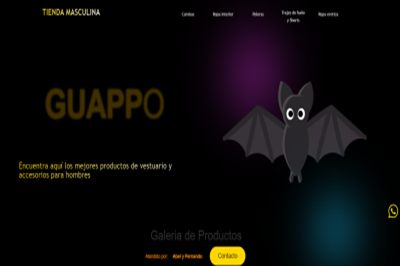
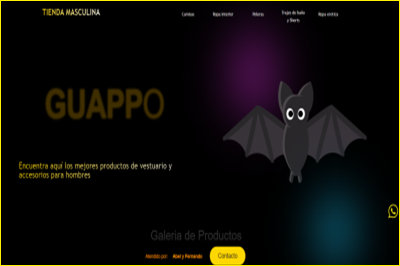
se cambio pantalla la otra

Changed region(s): [[0.0, 0.0, 1.0, 1.0]]

diff --git a/main.css b/main.css
@@ -929,9 +929,9 @@ img {
   position: relative;
   text-align: center;
   border: 3px solid #000;
-  -moz-border-radius: 8px;
-  -webkit-border-radius: 8px;
-  border-radius: 8px;
+  /*-moz-border-radius: 8px;*/
+  /*-webkit-border-radius: 8px;*/
+  /*border-radius: 8px;*/
   overflow: hidden;
   background: url("http://www.seanmichael.me/bathtubgin/wp-content/themes/sean-michael-design/images/fancybox_overlay.png") repeat transparent;
   -moz-transition: all 0.4s ease-in-out;
